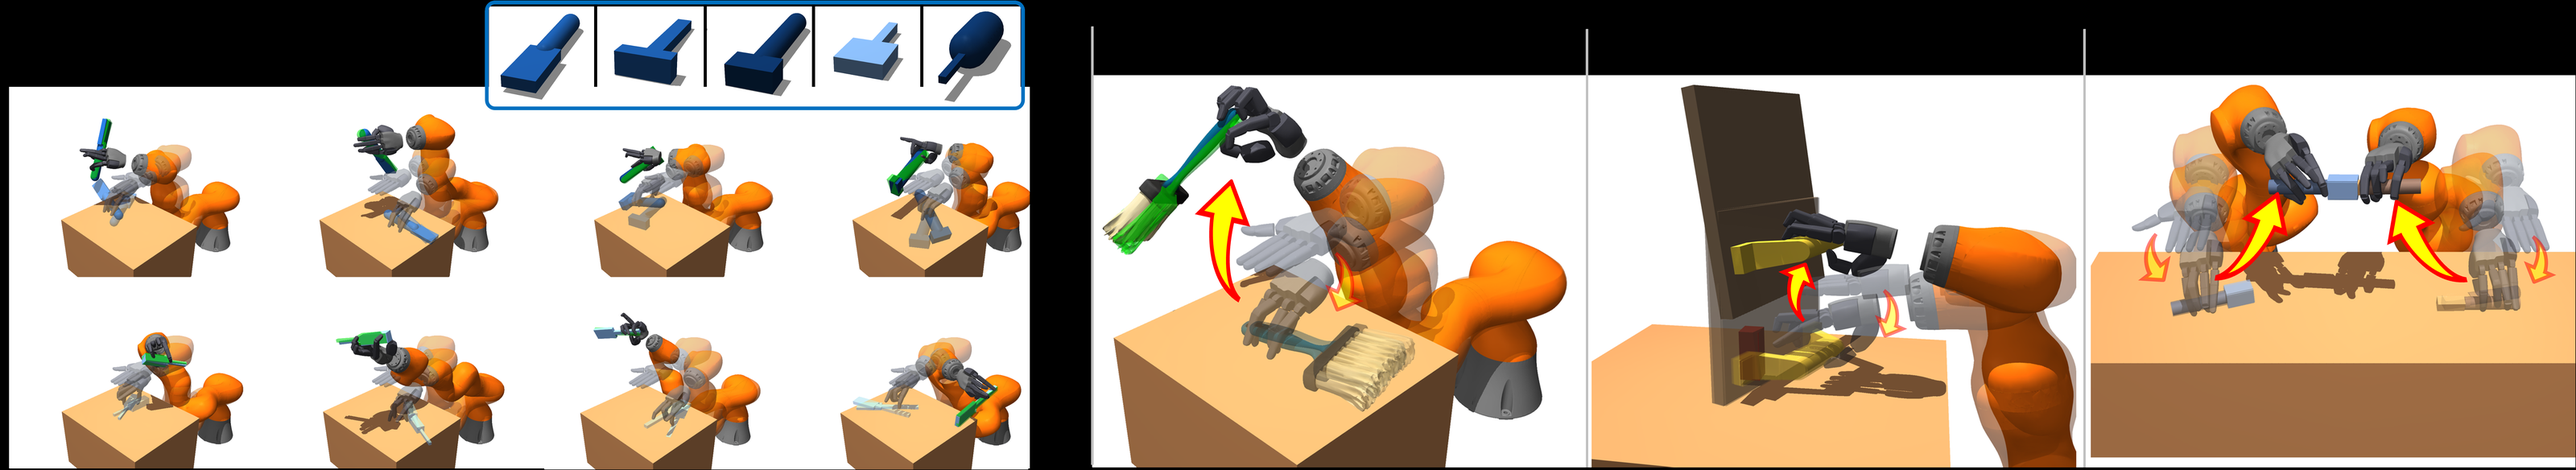
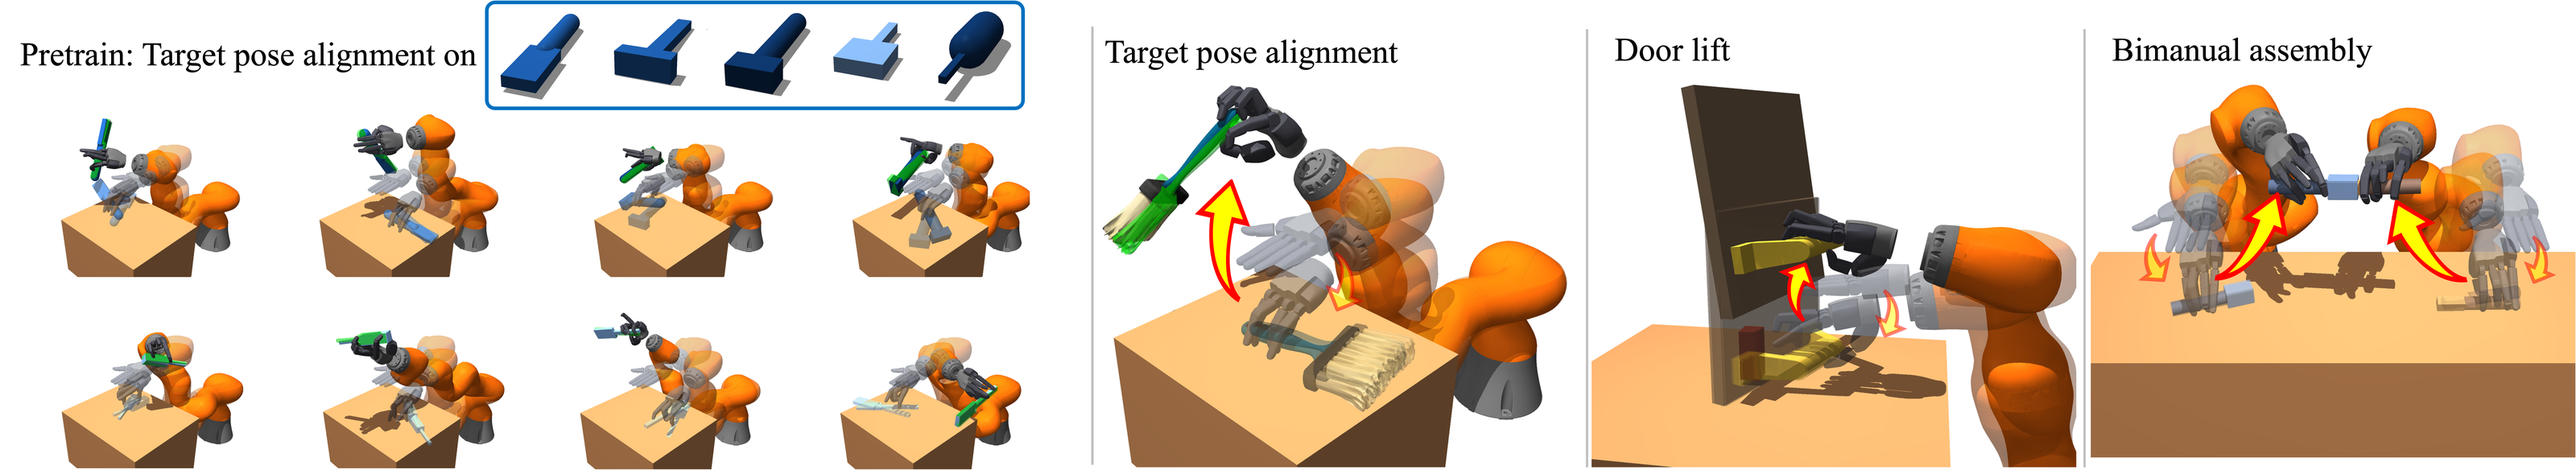
Fix black background in Figure 2
The figure's PDF image stores its transparency in a separate soft mask,
which the importer dropped, so transparent areas (and the black panel
labels drawn on them) rendered black. The importer now applies the soft
mask and composites onto white, matching the PDF page; tasks.webp is
regenerated with it and its manifest hash updated.

Changed region(s): [[0.0, 0.0, 1.0, 1.0]]

diff --git a/scripts/import_assets.py b/scripts/import_assets.py
@@ -26,6 +26,35 @@ def digest(path):
     return hashlib.sha256(path.read_bytes()).hexdigest()
 
 
+def flatten_on_white(image):
+    """Composite any transparency onto white, as the figure appears on the PDF page.
+
+    A plain RGB conversion would expose the colour stored under transparent pixels,
+    which is usually black.
+    """
+    if image.mode in ("RGBA", "LA") or (image.mode == "P" and "transparency" in image.info):
+        image = image.convert("RGBA")
+        background = Image.new("RGB", image.size, "white")
+        background.paste(image, mask=image.getchannel("A"))
+        return background
+    return image.convert("RGB")
+
+
+def embedded_figure(document, page_number):
+    """Return the largest raster image on a page, with its soft mask applied as alpha."""
+    page = document[page_number - 1]
+    info = max(page.get_image_info(xrefs=True), key=lambda x: x["width"] * x["height"])
+    xref = info["xref"]
+    image = Image.open(io.BytesIO(document.extract_image(xref)["image"]))
+    # PDF stores transparency in a separate soft-mask image; extract_image() omits it.
+    smask = next((item[1] for item in page.get_images(full=True) if item[0] == xref), 0)
+    if smask:
+        alpha = Image.open(io.BytesIO(document.extract_image(smask)["image"])).convert("L")
+        image = image.convert("RGB")
+        image.putalpha(alpha.resize(image.size))
+    return image
+
+
 def main():
     parser = argparse.ArgumentParser(description=__doc__)
     parser.add_argument("--paper", type=Path, required=True)
@@ -64,7 +93,7 @@ def main():
                 manifest["assets"][name] = previous[name]
 
     def save_image(image, name, width, source):
-        image = image.convert("RGB")
+        image = flatten_on_white(image)
         if image.width > width:
             image = image.resize((width, round(image.height * width / image.width)),
                                  Image.Resampling.LANCZOS)
@@ -83,11 +112,7 @@ def main():
         ("results", 6, 3200, 4),
         ("interface", 7, 2000, 5),
     ]:
-        page = document[page_number - 1]
-        candidates = page.get_image_info(xrefs=True)
-        info = max(candidates, key=lambda x: x["width"] * x["height"])
-        data = document.extract_image(info["xref"])
-        save_image(Image.open(io.BytesIO(data["image"])), name, width,
+        save_image(embedded_figure(document, page_number), name, width,
                    f"Manuscript Figure {figure}, page {page_number}; embedded image.")
 
     # Render vector figures at publication quality, with no captions or line numbers.
